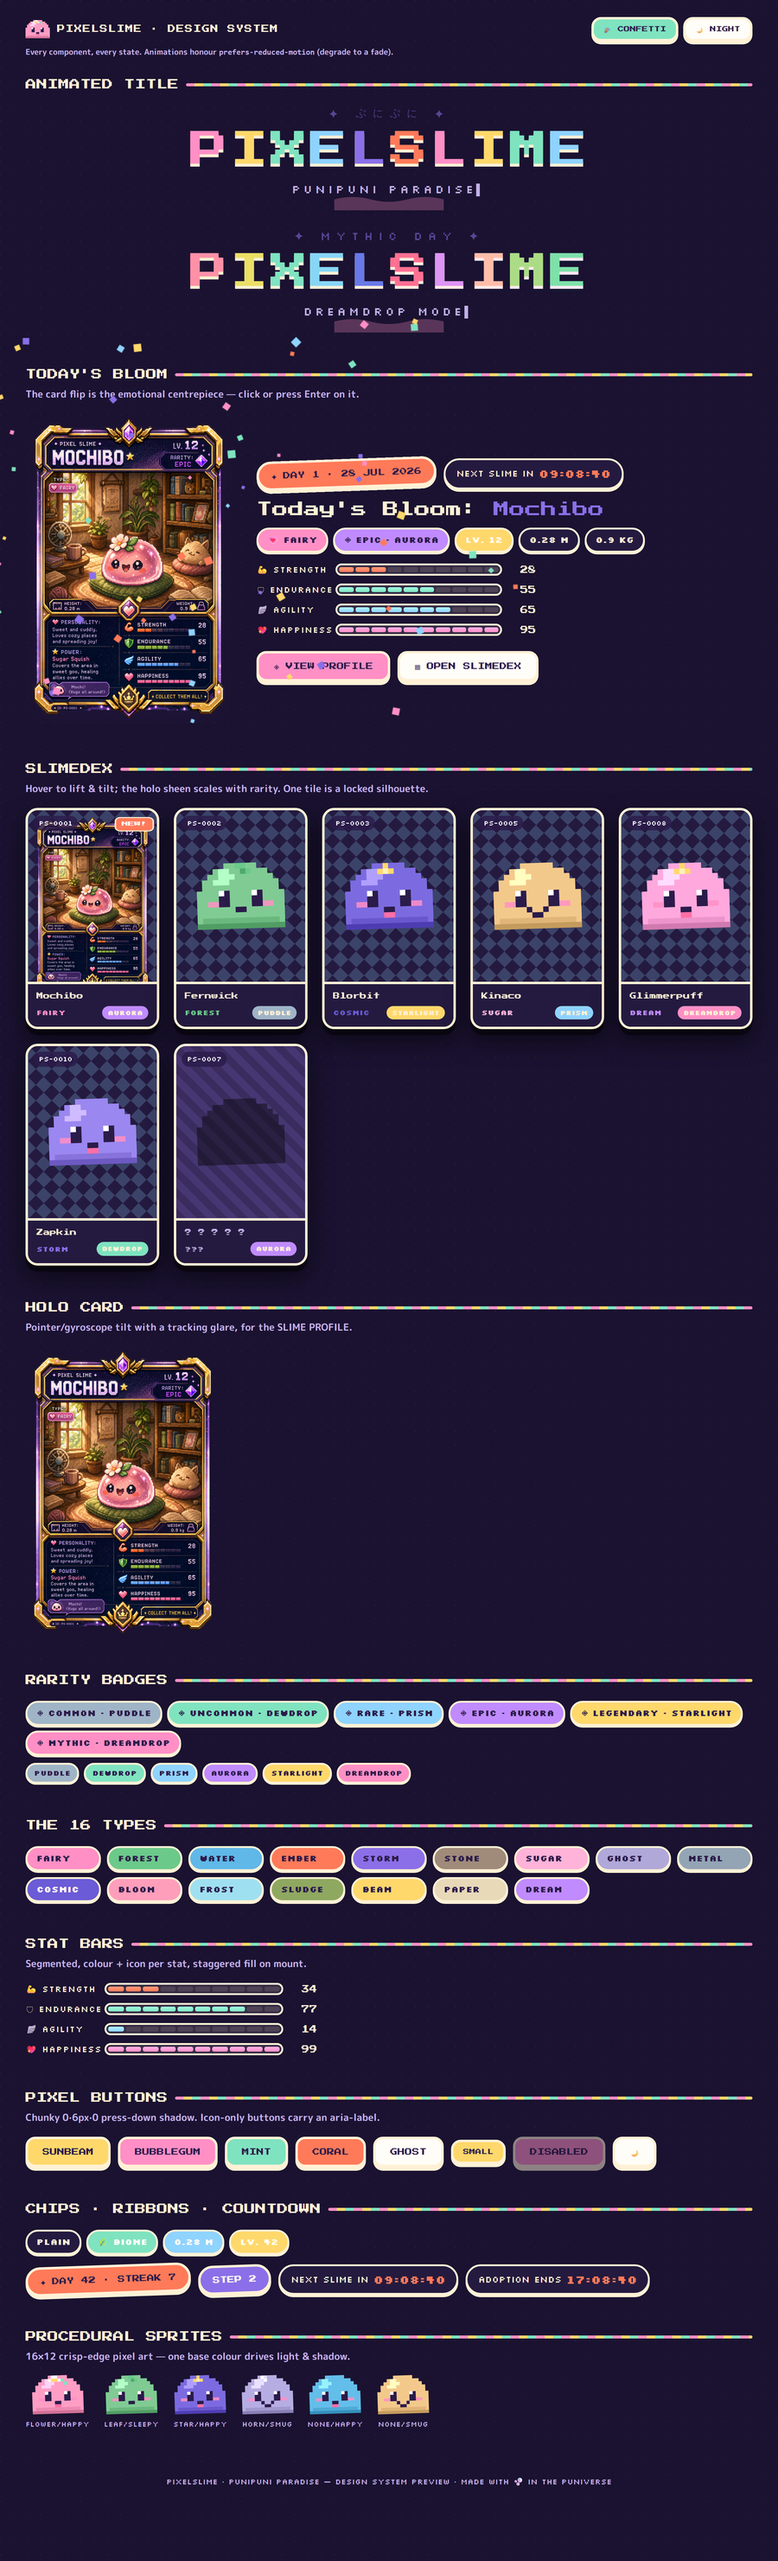
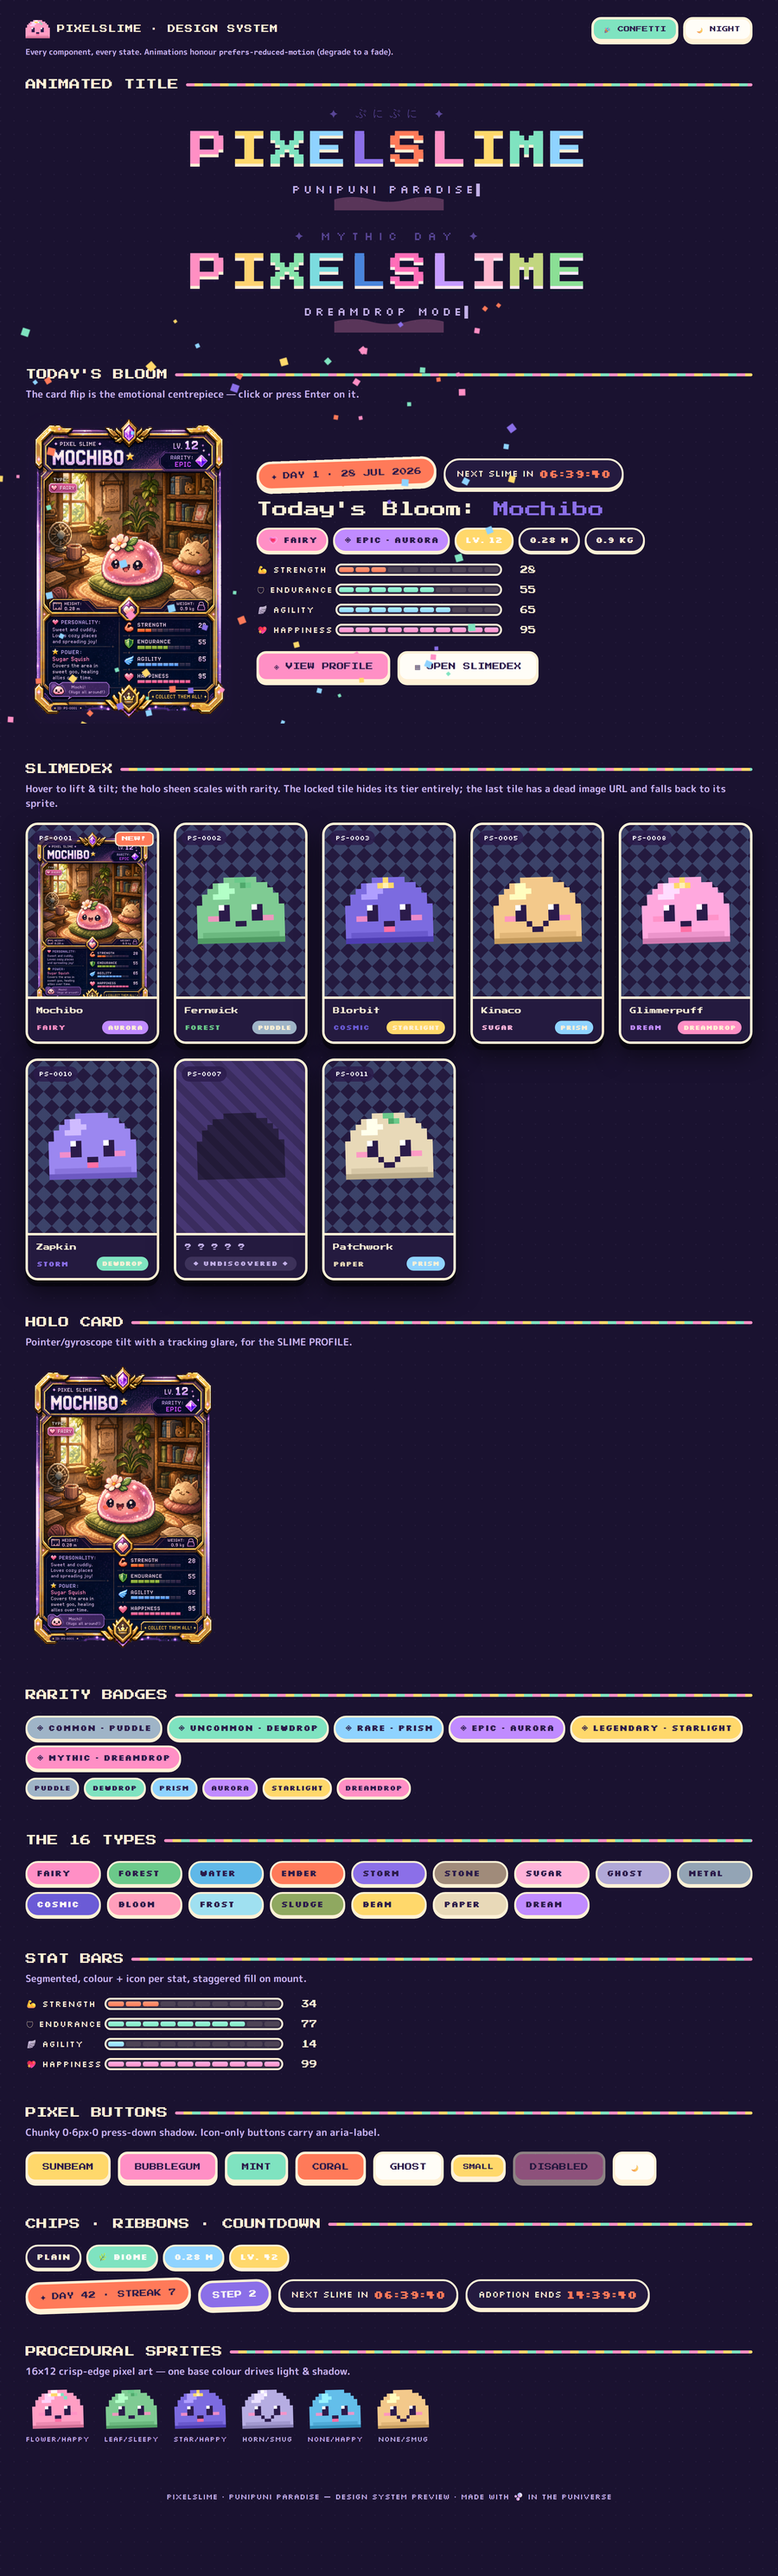
fix(w5): design system accessibility and the locked-tile tier leak
Four defects W6 hit while building the app on top of the design system,
plus two the agent found on its own.

- globals.css ships no @tailwind directives, which meant no Tailwind
  utilities were generated at all. The design system's own .ps-* classes
  still worked, which disguised a missing build step as a layout bug. Kept
  the split - the app owns Tailwind's entry point, and two entry points
  would double-generate base styles - but the requirement is now the first
  thing in the design README rather than undocumented.
- AnimatedTitle put aria-label on a role-less div, which axe flags as
  serious on every page with a hero. The full text now sits in a
  visually-hidden span and the per-letter animation is aria-hidden, so a
  screen reader gets the title at once instead of a character-by-character
  stutter.
- A locked SLIMEDEX tile still showed its rarity house tag, which defeats
  the discovery mechanic entirely: a visitor could see a LEGENDARY waiting
  behind the silhouette. Locked tiles now show only the serial, the
  silhouette and a neutral UNDISCOVERED pill.
- The agent then noticed something I had missed: the holo sheen intensity
  was itself scaled by rarity, so a locked LEGENDARY still shimmered more
  than a locked COMMON. Pinned to a fixed value.
- SlimeCard rendered nothing at all when an image URL was broken rather
  than falsy. It now falls back to the procedural sprite on error, so a
  missing blob degrades to a cute slime instead of a hole.
[…]

diff --git a/frontend/src/design/components/SlimeCard.tsx b/frontend/src/design/components/SlimeCard.tsx
@@ -1,3 +1,4 @@
+import { useEffect, useState } from 'react';
 import type { CSSProperties, ReactElement } from 'react';
 import { RARITY_ORDER, toCardId } from '../types';
 import type { SlimeCardData } from '../types';
@@ -8,11 +9,14 @@ import { SlimeSprite } from './SlimeSprite';
 
 /**
  * <SlimeCard/> — a SLIMEDEX gallery tile. It shows real artwork when available and
- * falls back to the procedural sprite otherwise. `locked` renders the Pokédex-style
- * dark "? ? ? ? ?" silhouette. On hover it lifts and tilts toward the pointer, and a
- * holographic sheen sweeps across it whose strength scales with rarity. It is a real
- * <button>, so it is fully keyboard-operable, and the reduced-motion degrade (no
- * tilt, quiet fade-in) is honoured.
+ * falls back to the procedural sprite otherwise — including when the image URL fails
+ * to load (onError), so a dead blob degrades to a cute slime rather than a blank
+ * hole. `locked` renders the Pokédex-style dark "? ? ? ? ?" silhouette and hides
+ * every tier tell — name, type, the rarity house tag and even the holo intensity —
+ * so a silhouette never spoils what is waiting inside. On hover it lifts and tilts
+ * toward the pointer, and a holographic sheen sweeps across it whose strength scales
+ * with rarity (revealed cards only). It is a real <button>, so it is fully keyboard-
+ * operable, and the reduced-motion degrade (no tilt, quiet fade-in) is honoured.
  */
 
 export interface SlimeCardProps {
@@ -45,9 +49,18 @@ export function SlimeCard({
     enabled: !reduced,
   });
 
+  // Fall back to the procedural sprite if the artwork 404s / fails to decode.
+  const [imgError, setImgError] = useState(false);
+  useEffect(() => {
+    setImgError(false);
+  }, [card.imageSrc]);
+
   const info = rarity[card.rarity];
   const cardId = card.cardId ?? toCardId(card.serial);
-  const holoStrength = 0.35 + RARITY_ORDER.indexOf(card.rarity) * 0.13;
+  // A locked tile must not leak its tier, so its holo sheen uses a fixed neutral
+  // intensity rather than the rarity-scaled one.
+  const holoStrength = locked ? 0.3 : 0.35 + RARITY_ORDER.indexOf(card.rarity) * 0.13;
+  const showImage = Boolean(card.imageSrc) && !locked && !imgError;
 
   const label = locked
     ? `Unrevealed slime ${cardId}`
@@ -80,8 +93,13 @@ export function SlimeCard({
       {isNew ? <span className="ps-newbadge">NEW!</span> : null}
 
       <div className="ps-tile__art">
-        {card.imageSrc && !locked ? (
-          <img src={card.imageSrc} alt="" loading="lazy" />
+        {showImage ? (
+          <img
+            src={card.imageSrc}
+            alt=""
+            loading="lazy"
+            onError={() => setImgError(true)}
+          />
         ) : (
           <SlimeSprite
             baseColor={card.spriteColor}
@@ -95,12 +113,18 @@ export function SlimeCard({
       <div className="ps-tile__meta">
         <div className="ps-tile__name">{locked ? '? ? ? ? ?' : card.name}</div>
         <div className="ps-tile__row">
-          <span style={{ color: locked ? 'var(--ps-ink-soft)' : typeColor[card.type], fontWeight: 700 }}>
-            {locked ? '???' : card.type}
-          </span>
-          <span className="ps-tile__rartag" style={{ background: info.color }}>
-            {info.house.toUpperCase()}
-          </span>
+          {locked ? (
+            <span className="ps-tile__locktag">◆ UNDISCOVERED ◆</span>
+          ) : (
+            <>
+              <span style={{ color: typeColor[card.type], fontWeight: 700 }}>
+                {card.type}
+              </span>
+              <span className="ps-tile__rartag" style={{ background: info.color }}>
+                {info.house.toUpperCase()}
+              </span>
+            </>
+          )}
         </div>
       </div>
     </button>

diff --git a/frontend/src/design/preview.tsx b/frontend/src/design/preview.tsx
@@ -37,6 +37,8 @@ const SAMPLES: Sample[] = [
   { serial: 8, name: 'Glimmerpuff', rarity: 'MYTHIC', type: 'DREAM', level: 22, spriteColor: '#FFA8DE', accessory: 'star', face: 'happy' },
   { serial: 10, name: 'Zapkin', rarity: 'UNCOMMON', type: 'STORM', level: 13, spriteColor: '#9B87F0', accessory: 'none', face: 'happy' },
   { serial: 7, name: 'Nibblewisp', rarity: 'EPIC', type: 'GHOST', level: 16, spriteColor: '#B6ADE2', accessory: 'horn', face: 'sleepy', locked: true },
+  // Deliberately broken artwork URL: proves the onError → procedural sprite fallback.
+  { serial: 11, name: 'Patchwork', rarity: 'RARE', type: 'PAPER', level: 9, imageSrc: './preview-assets/missing-404.png', spriteColor: '#E8D9B8', accessory: 'leaf', face: 'smug' },
 ];
 
 const SPRITE_SHOWCASE: Array<{ color: string; accessory: SlimeAccessory; face: SlimeFace }> = [
@@ -90,6 +92,7 @@ export function Preview(): ReactElement {
 
       <div style={{ maxWidth: 1240, margin: '0 auto', padding: '28px 22px 120px' }}>
         {/* ── Top bar ─────────────────────────────────────────────── */}
+        <header>
         <div className="flex items-center gap-3" style={{ marginBottom: 8 }}>
           <SlimeSprite baseColor="#FF9EC4" accessory="flower" size={40} />
           <span className="font-pixel" style={{ fontSize: 13, letterSpacing: 1 }}>
@@ -107,7 +110,9 @@ export function Preview(): ReactElement {
         <p className="text-ink-soft font-bold" style={{ fontSize: 13, marginBottom: 30 }}>
           Every component, every state. Animations honour <code>prefers-reduced-motion</code> (degrade to a fade).
         </p>
+        </header>
 
+        <main>
         {/* ── Animated title ──────────────────────────────────────── */}
         <Section title="ANIMATED TITLE">
           <div style={{ display: 'grid', gap: 28 }}>
@@ -161,7 +166,7 @@ export function Preview(): ReactElement {
         </Section>
 
         {/* ── Slimedex grid ───────────────────────────────────────── */}
-        <Section title="SLIMEDEX" sub={opened ? `Opened ${opened}` : 'Hover to lift & tilt; the holo sheen scales with rarity. One tile is a locked silhouette.'}>
+        <Section title="SLIMEDEX" sub={opened ? `Opened ${opened}` : 'Hover to lift & tilt; the holo sheen scales with rarity. The locked tile hides its tier entirely; the last tile has a dead image URL and falls back to its sprite.'}>
           <div style={{ display: 'grid', gridTemplateColumns: 'repeat(auto-fill,minmax(196px,1fr))', gap: 24 }}>
             {SAMPLES.map((c, i) => (
               <SlimeCard
@@ -258,6 +263,8 @@ export function Preview(): ReactElement {
             ))}
           </div>
         </Section>
+
+        </main>
 
         <footer className="font-stat" style={{ fontSize: 13, color: 'var(--ps-ink-soft)', textAlign: 'center', paddingTop: 20 }}>
           PIXELSLIME · PUNIPUNI PARADISE — design system preview · made with 🫧 in the Puniverse

diff --git a/frontend/src/design/globals.css b/frontend/src/design/globals.css
@@ -94,6 +94,20 @@
   border-radius: var(--ps-radius-sm);
 }
 
+/* Visually-hidden but announced to assistive tech. Namespaced as `ps-` so it never
+   collides with Tailwind's own `.sr-only` when both stylesheets are present. */
+.ps-sr-only {
+  position: absolute;
+  width: 1px;
+  height: 1px;
+  padding: 0;
+  margin: -1px;
+  overflow: hidden;
+  clip: rect(0, 0, 0, 0);
+  white-space: nowrap;
+  border: 0;
+}
+
 /* ══════════════════ KEYFRAMES ══════════════════ */
 @keyframes ps-squish { 0%, 100% { transform: scale(1, 1); } 45% { transform: scale(1.14, .86); } 70% { transform: scale(.94, 1.08); } }
 @keyframes ps-letterhop { 0%, 62%, 100% { transform: translateY(0) scale(1, 1); } 70% { transform: translateY(-16px) scale(.9, 1.14); } 82% { transform: translateY(0) scale(1.14, .88); } 90% { transform: translateY(0) scale(1, 1); } }
@@ -217,6 +231,7 @@
 .ps-tile__row { display: flex; justify-content: space-between; align-items: center; font-family: var(--ps-font-stat); font-size: 12px; color: var(--ps-ink-soft); }
 .ps-tile__serial { position: absolute; top: 9px; left: 9px; font-family: var(--ps-font-stat); font-size: 11px; background: rgba(43, 27, 74, .82); color: #fff; padding: 4px 9px; border-radius: 999px; z-index: 2; }
 .ps-tile__rartag { padding: 3px 9px; border-radius: 999px; color: var(--ps-ink); font-weight: 700; font-size: 11px; }
+.ps-tile__locktag { flex: 1; text-align: center; padding: 3px 10px; border-radius: 999px; font-weight: 700; font-size: 11px; letter-spacing: 1px; color: var(--ps-ink-soft); background: color-mix(in srgb, var(--ps-ink-soft) 16%, var(--ps-paper)); }
 .ps-tile.locked .ps-tile__art { background: repeating-linear-gradient(45deg, #3A2C5E 0 12px, #463672 12px 24px); }
 .ps-tile.locked .ps-tile__art svg { filter: brightness(0) opacity(.42); }
 .ps-tile.locked .ps-tile__name { color: var(--ps-ink-soft); }

diff --git a/frontend/src/design/components/AnimatedTitle.tsx b/frontend/src/design/components/AnimatedTitle.tsx
@@ -6,9 +6,12 @@ import { useTypewriter } from '../hooks/useTypewriter';
 /**
  * <AnimatedTitle/> — the hero lockup: a ぷにぷに eyebrow, the wordmark whose every
  * letter bounces on a stagger with squash-and-stretch, and a subtitle that types
- * itself out. On MYTHIC days pass `rainbow` for the animated foil. The full text is
- * exposed to assistive tech via aria-label while the per-letter spans are hidden, so
- * it reads as one word, not ten. Reduced motion is honoured centrally.
+ * itself out. On MYTHIC days pass `rainbow` for the animated foil. The decorative
+ * per-letter spans and the typewriter copy are `aria-hidden`, and the complete text
+ * is exposed once via a visually-hidden `.ps-sr-only` span, so assistive tech reads
+ * each line as one whole phrase instead of a character-by-character stutter (and we
+ * avoid putting `aria-label` on role-less elements). Reduced motion is honoured
+ * centrally.
  */
 
 export interface AnimatedTitleProps {
@@ -47,7 +50,8 @@ export function AnimatedTitle({
     <div className={rootClasses}>
       {eyebrow != null ? <div className="ps-eyebrow">{eyebrow}</div> : null}
 
-      <Heading className={titleClasses} aria-label={text}>
+      <Heading className={titleClasses}>
+        <span className="ps-sr-only">{text}</span>
         {[...text].map((ch, i) => (
           <span
             key={`${ch}-${i}`}
@@ -63,7 +67,8 @@ export function AnimatedTitle({
       </Heading>
 
       {subtitle != null ? (
-        <div className="ps-subtitle" aria-label={subtitle}>
+        <div className="ps-subtitle">
+          <span className="ps-sr-only">{subtitle}</span>
           <span aria-hidden="true">
             {typed}
             <span className="ps-caret">▌</span>

diff --git a/frontend/src/design/components/Chip.tsx b/frontend/src/design/components/Chip.tsx
@@ -37,8 +37,19 @@ export function Chip({
     .filter(Boolean)
     .join(' ');
 
+  // A bare <span> maps to the generic role, on which `aria-label` is name-prohibited
+  // (axe: aria-prohibited-attr). When a label is supplied we promote the pill to
+  // role="img" so it is announced as one labelled unit (e.g. "Rarity EPIC, Aurora
+  // house") instead of its decorative glyph being read out character by character.
+  const label = rest['aria-label'];
+
   return (
-    <span className={classes} style={{ ...toned, ...style }} aria-label={rest['aria-label']}>
+    <span
+      className={classes}
+      style={{ ...toned, ...style }}
+      role={label != null ? 'img' : undefined}
+      aria-label={label}
+    >
       {icon != null ? <span aria-hidden="true">{icon}</span> : null}
       {children}
     </span>

diff --git a/frontend/src/design/components/Countdown.tsx b/frontend/src/design/components/Countdown.tsx
@@ -67,7 +67,7 @@ export function Countdown({
 
   const classes = ['ps-countdown', className ?? ''].filter(Boolean).join(' ');
   return (
-    <span className={classes} aria-label={`${String(label)} ${display}`}>
+    <span className={classes} role="timer" aria-label={`${String(label)} ${display}`}>
       {label}
       <b>{display}</b>
     </span>

diff --git a/frontend/src/design/README.md b/frontend/src/design/README.md
@@ -9,6 +9,28 @@ Everything is driven by `tokens.ts` (the single source of every hex, mirrored fr
 
 ---
 
+## ⚠ REQUIRED FIRST STEP — mount Tailwind in your app
+
+`globals.css` deliberately ships **no** `@tailwind` directives. The app owns
+Tailwind's entry point; emitting the directives here too would double-generate
+Tailwind's base/preflight when both stylesheets are imported. So **your app's CSS
+entry must contain the three directives itself**:
+
+```css
+@tailwind base;
+@tailwind components;
+@tailwind utilities;
+```
+
+If you skip this, **zero Tailwind utilities are generated** and every page collapses
+to a broken single column — yet the design system's own `.ps-*` classes keep working,
+so it looks like a layout bug rather than a missing build step. Import order at the
+app root: your Tailwind entry **first**, then `import '@/design/globals.css';`, so the
+`.ps-*` identity wins over Tailwind's preflight. (See `preview.entry.tsx` +
+`preview-tailwind.css` in this folder for exactly this wiring.)
+
+---
+
 ## What W6 must merge
 
 The `package.json`, `tsconfig.json`, `vite.config.ts`, `tailwind.config.ts`,
@@ -87,7 +109,9 @@ import '@/design/globals.css';
 ```
 This provides the fonts, the light + `MOONLIT PUNIVERSE` theme variables, the dotted
 paper surface (`.ps-surface`), the focus ring and every keyframe/`.ps-*` class the
-components rely on. **The components will not look right without it.**
+components rely on. **The components will not look right without it.** Note this file
+does **not** include the `@tailwind` directives — you mount those yourself (see the
+⚠ REQUIRED FIRST STEP at the top).
 
 ### 5. Dark theme
 Toggle by setting `data-theme="night"` on `<html>` (or any wrapper):
@@ -153,7 +177,18 @@ Hooks (also exported): `useReducedMotion`, `useTypewriter`, `usePointerTilt`,
   confetti, tilt and the flip (→ crossfade).
 - **Accessibility:** real `<button>`s (CardFlip/SlimeCard/PixelButton are keyboard
   operable), a visible on-brand dashed focus ring, `aria-label` on icon-only controls,
-  `role="progressbar"` on stat bars, and AA-legible pill text chosen by WCAG contrast.
+  `role="progressbar"` on stat bars, AA-legible pill text chosen by WCAG contrast, and
+  full titles exposed via a visually-hidden `.ps-sr-only` span (never `aria-label` on a
+  role-less element — informational pills carry `role="img"`/`role="timer"` so their
+  label is announced as one unit). `npm run axe` reports **0 violations** on the preview
+  (the only `incomplete` item is `color-contrast`, which axe cannot auto-compute over the
+  dotted/gradient backgrounds; it was verified AA by hand).
+  > **Accessibility contract for the app:** the components are axe-clean, but page-level
+  > landmark rules (`landmark-one-main`, `region`) are the app's job — wrap your routes
+  > in `<header>`/`<main>`/`<footer>` (the preview does this). SlimeCard's `locked` state
+  > deliberately hides the name, type, rarity house tag **and** the holo intensity so a
+  > silhouette never spoils its tier; a broken `imageSrc` degrades to the procedural
+  > sprite via `onError`.
 - **No `any`; `tsc --noEmit` clean** under `strict: true`.
 - **Motion budget:** every discrete transition/reveal is ≤600 ms (flip and pop-in are
   capped at .6s). The ambient idle loops (squish/bob/breathe/pulse) are the mockup's
@@ -181,4 +216,5 @@ npm install        # dev harness deps (W6 does NOT need this)
 npm run typecheck  # tsc --noEmit  → clean
 npm run dev        # vite preview at http://localhost:5173/
 npm run shot       # Playwright screenshots (needs `npx playwright install chromium`)
+npm run axe        # @axe-core/playwright audit of the preview → 0 violations
 ```
